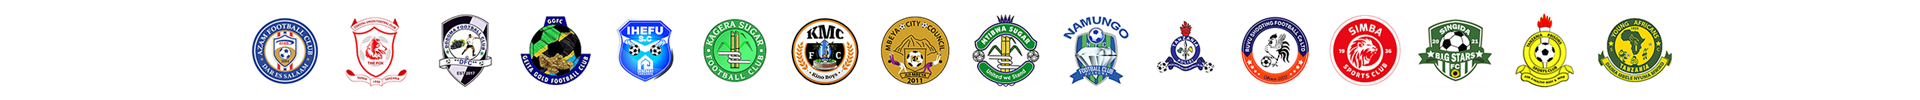
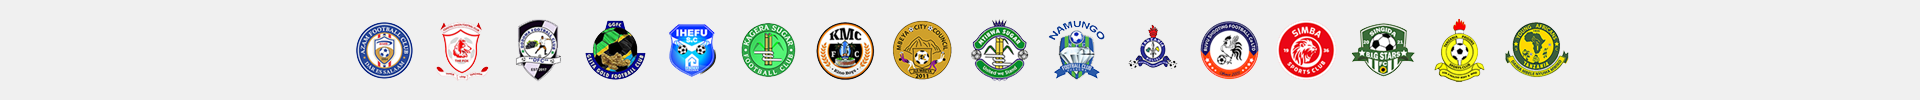
Update meta tag content

Changed region(s): [[0.125, 0.15, 0.875, 0.87]]

diff --git a/src/components/header/header.css b/src/components/header/header.css
@@ -4,8 +4,7 @@
     top: 0;
     left: 0;
     z-index: var(--z-fixed);
-    /*background-color: var(--body-color);*/
-    background-color: #e7e7e7;
+    background-color: var(--body-color);
 }
 
 .nav {
@@ -17,7 +16,7 @@
 }
 
 .teams_nav {
-    height: var(--header-height);
+    max-height: var(--header-height);
     padding-bottom: 4rem;
 }
 
